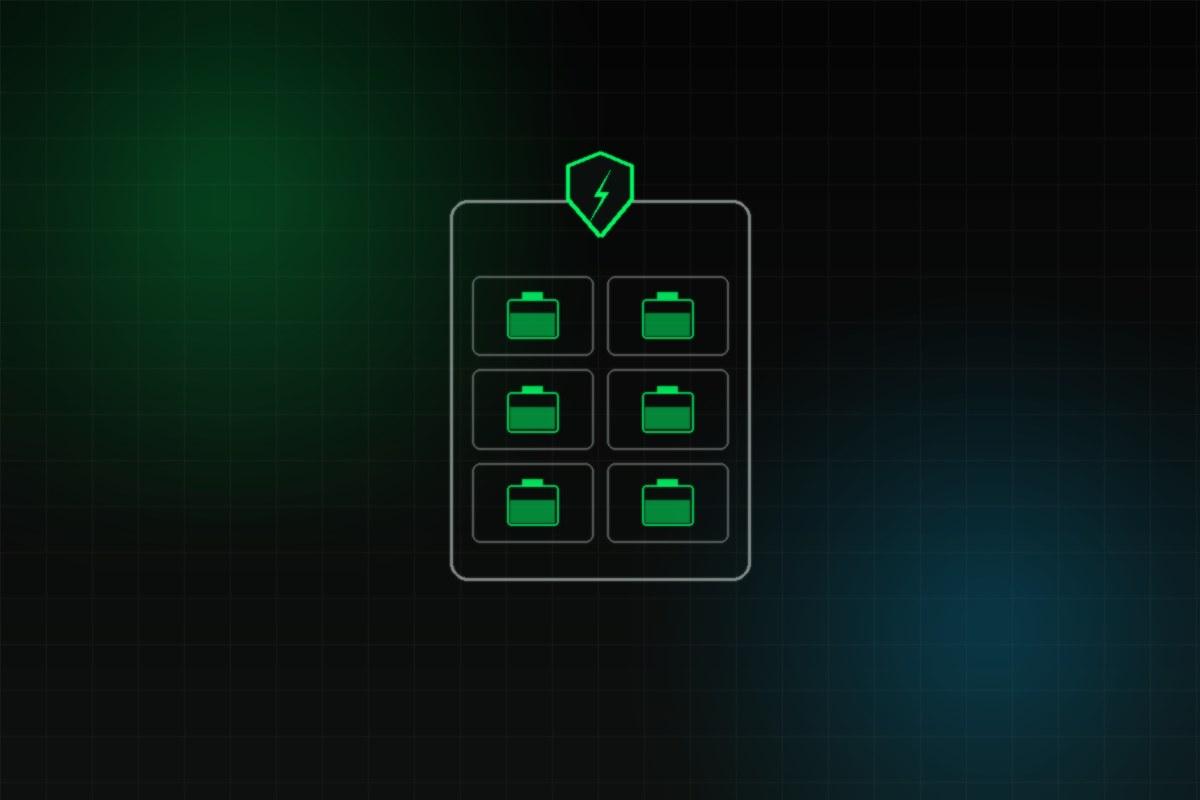
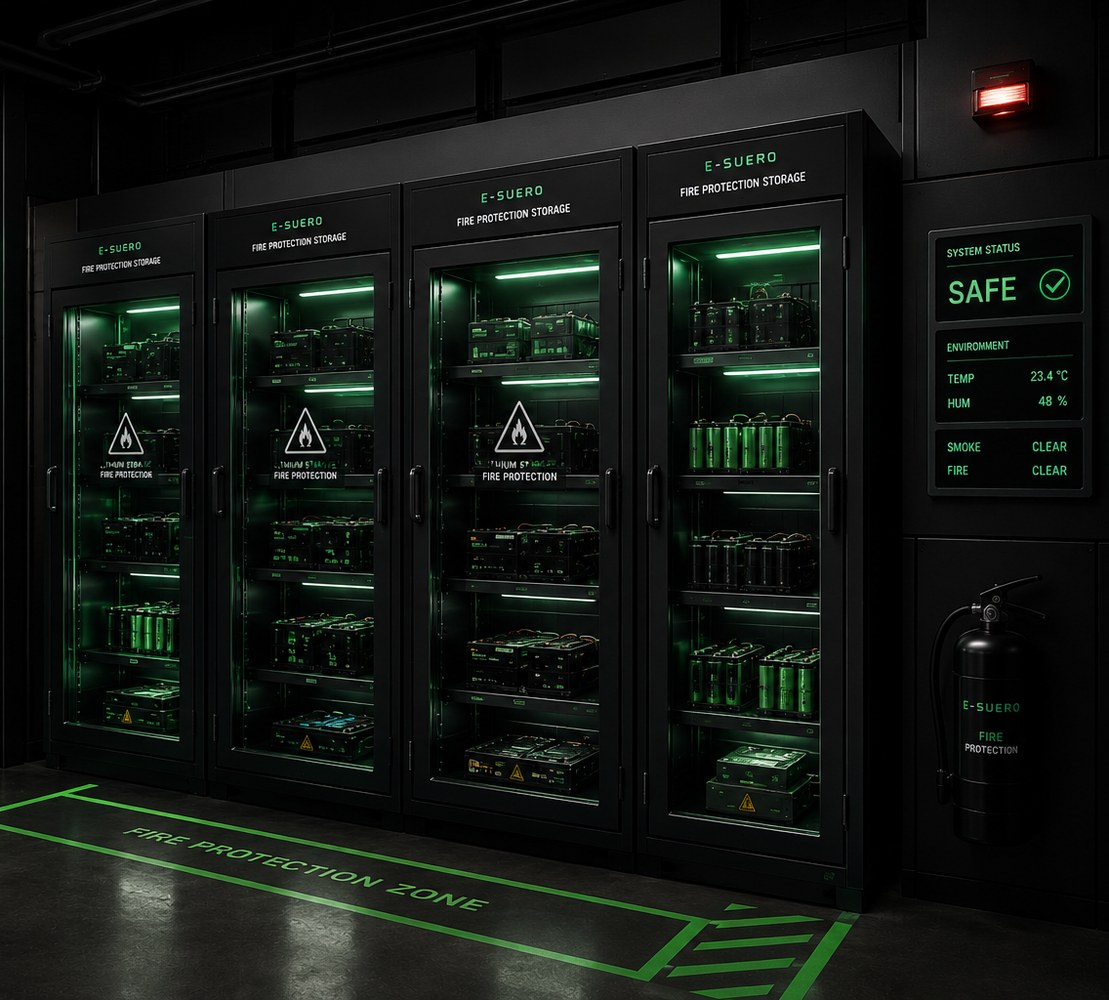
Use real cropped photography for the last 2 E-Suero Lab steps
Replace the generated icon placeholders for Batteriebericht and
Brandschutzlagerung with the user's real branded photos, cropping out
the text/bullet panel and keeping only the clean photography — matching
the plain-photo treatment already used for the other 6 scroll-story
steps, since the story's own title/description overlay already carries
the text. Bump both images' cache-busting version.

diff --git a/index.html b/index.html
@@ -507,7 +507,7 @@
         </div>
       </div>
       <div class="labstory-step reveal">
-        <div class="labstory-media" style="background-image:url(assets/images/lab/batteriebericht.jpg?v=20260802)"></div>
+        <div class="labstory-media" style="background-image:url(assets/images/lab/batteriebericht.jpg?v=20260806)"></div>
         <div class="labstory-content">
           <span class="labstory-index">02</span>
           <h3 data-i18n="ls2_t">Batteriebericht</h3>
@@ -547,7 +547,7 @@
         </div>
       </div>
       <div class="labstory-step reveal">
-        <div class="labstory-media" style="background-image:url(assets/images/lab/brandschutzlagerung.jpg?v=20260805)"></div>
+        <div class="labstory-media" style="background-image:url(assets/images/lab/brandschutzlagerung.jpg?v=20260806)"></div>
         <div class="labstory-content">
           <span class="labstory-index">07</span>
           <h3 data-i18n="ls7_t">Brandschutzlagerung</h3>
